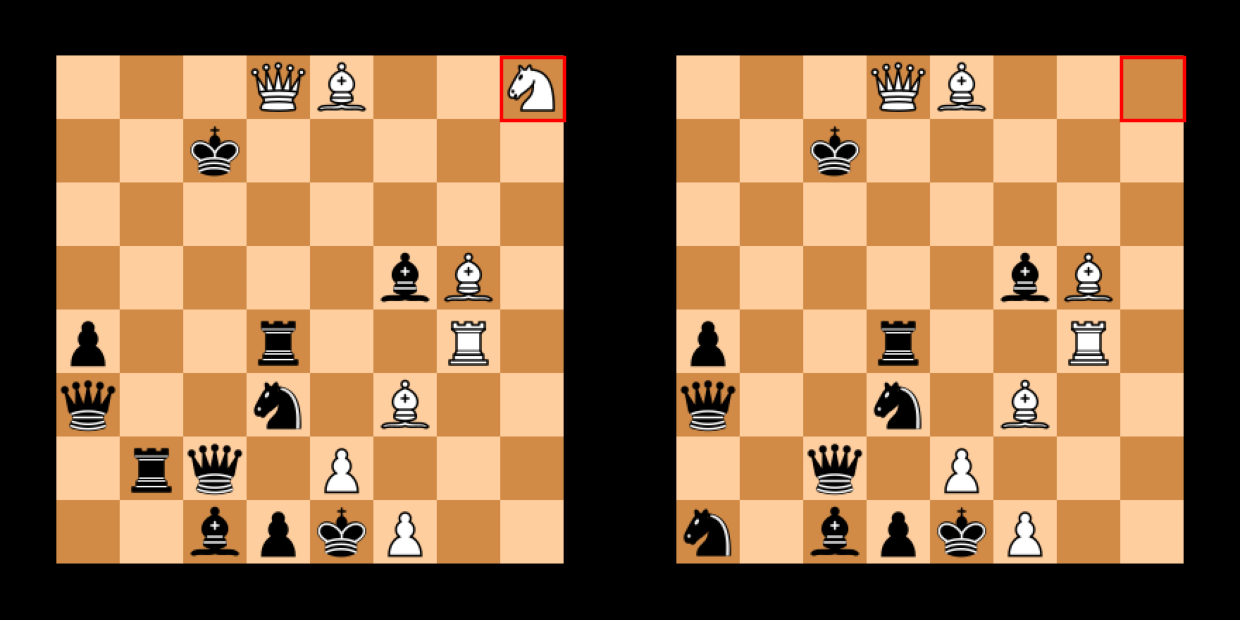
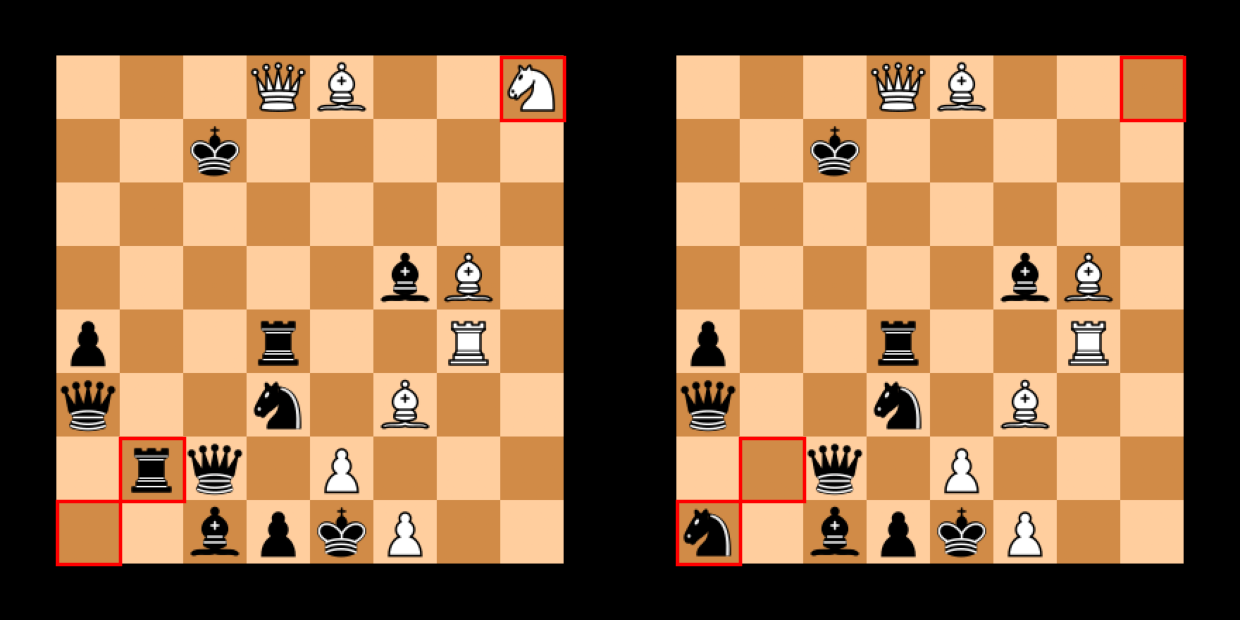
New img with AOI

Changed region(s): [[0.521, 0.7048, 0.6742, 0.9194], [0.0306, 0.7048, 0.1532, 0.9194]]

diff --git a/AOI.py b/AOI.py
@@ -109,29 +109,156 @@ AOI_seven_diff = [[[0, 0, 0, 0]],
 
 
 
+Caligraphies      [[[0, 0, 0, 0]],
+
+                  [[]],
+
+                  [[]],
+
+                  [[]],
+
+                  [[]],
+
+]
 
 
 
 
 
-
-
+Echiquiers
                   [[0, 0, 0, 0]],
 
                   [[355, 40, 45, 45], [795, 40, 45, 45]],
 
-                  [[]],
+                  [[355, 40, 45, 45], [40, 355, 45, 45], [85, 310, 45, 45], [795, 40, 45, 45], [480, 355, 45, 45],
+                   [525, 310, 45, 45]],
 
+                  [[40, 40, 45, 45], [40, 175, 45, 45], [85, 220, 45, 45], [85, 355, 45, 45], [480, 40, 45, 45],
+                   [480, 175, 45, 45], [525, 220, 45, 45], [525, 355, 45, 45]],
 
+                  [[130, 40, 45, 45], [130, 220, 45, 45], [220, 265, 45, 45], [355, 265, 45, 45], [355, 310, 45, 45],
+                   [220, 355, 45, 45], [570, 40, 45, 45], [570, 220, 45, 45], [660, 265, 45, 45], [795, 265, 45, 45],
+                   [795, 310, 45, 45], [660, 355, 45, 45]],
 
+                  [[40, 265, 45, 45], [480, 265, 45, 45]],
 
+                  [[355, 40, 45, 45], [40, 310, 45, 45], [795, 40, 45, 45], [480, 310, 45, 45]],
 
+                  [[355, 175, 45, 45], [265, 310, 45, 45], [85, 355, 45, 45], [795, 175, 45, 45], [705, 310, 45, 45],
+                   [525, 355, 45, 45]],
 
+                  [[130, 40, 45, 45], [175, 175, 45, 45], [130, 310, 45, 45], [220, 310, 45, 45], [570, 40, 45, 45],
+                   [615, 175, 45, 45], [570, 310, 45, 45], [660, 310, 45, 45]],
 
+                  [[85, 85, 45, 45], [265, 85, 45, 45], [310, 130, 45, 45], [130, 220, 45, 45], [175, 220, 45, 45],
+                   [310, 265, 45, 45], [525, 85, 45, 45], [705, 85, 45, 45], [750, 130, 45, 45], [570, 220, 45, 45],
+                   [615, 220, 45, 45], [750, 265, 45, 45]],
 
+                  [[310, 310, 45, 45], [750, 310, 45, 45]],
 
+                  [[310, 310, 45, 45], [750, 310, 45, 45], [130, 310, 45, 45], [570, 310, 45, 45]],
 
-]
+                  [[220, 175, 45, 45], [85, 220, 45, 45], [355, 355, 45, 45], [660, 175, 45, 45],
+                   [525, 220, 45, 45], [795, 355, 45, 45]],
+
+                  [[40, 175, 45, 45], [175, 175, 45, 45], [130, 355, 45, 45], [220, 355, 45, 45], [175, 310, 45, 45],
+                   [480, 175, 45, 45], [615, 175, 45, 45], [570, 355, 45, 45], [660, 355, 45, 45], [615, 310, 45, 45]],
+
+                  [[130, 40, 45, 45], [220, 40, 45, 45], [355, 85, 45, 45], [85, 355, 45, 45], [175, 355, 45, 45],
+                   [265, 355, 45, 45], [570, 40, 45, 45], [660, 40, 45, 45], [795, 85, 45, 45], [525, 355, 45, 45],
+                   [615, 355, 45, 45], [705, 355, 45, 45]],
+
+                  [[0, 0, 0, 0]],
+
+                  [[130, 175, 45, 45], [570, 175, 45, 45]],
+
+                  [[130, 175, 45, 45], [570, 175, 45, 45], [355, 355, 45, 45], [795, 355, 45, 45]],
+
+                  [[355, 130, 45, 45], [355, 220, 45, 45], [130, 265, 45, 45], [40, 310, 45, 45], [795, 130, 45, 45],
+                   [795, 220, 45, 45], [570, 265, 45, 45], [480, 310, 45, 45]],
+
+                  [[265, 130, 45, 45], [355, 175, 45, 45], [85, 220, 45, 45], [85, 265, 45, 45], [85, 310, 45, 45],
+                   [705, 130, 45, 45], [795, 175, 45, 45], [525, 220, 45, 45], [525, 265, 45, 45], [525, 310, 45, 45]],
+
+                  [[0, 0, 0, 0]],
+
+                  [[85, 40, 45, 45], [310, 310, 45, 45], [525, 40, 45, 45], [750, 310, 45, 45]],
+
+                  [[40, 220, 45, 45], [130, 310, 45, 45], [480, 220, 45, 45], [570, 310, 45, 45]],
+
+                  [[220, 130, 45, 45], [220, 310, 45, 45], [85, 355, 45, 45], [355, 355, 45, 45], [660, 130, 45, 45],
+                   [660, 310, 45, 45], [525, 355, 45, 45], [795, 355, 45, 45]],
+
+                  [[40, 40, 45, 45], [310, 40, 45, 45], [40, 85, 45, 45], [175, 175, 45, 45], [310, 265, 45, 45],
+                   [355, 265, 45, 45], [480, 40, 45, 45], [750, 40, 45, 45], [480, 85, 45, 45], [615, 175, 45, 45],
+                   [750, 265, 45, 45], [795, 265, 45, 45]],
+
+                  [[0, 0, 0, 0]],
+
+                  [[40, 220, 45, 45], [480, 220, 45, 45], [220, 310, 45, 45], [660, 310, 45, 45]],
+
+                  [[85, 175, 45, 45], [220, 175, 45, 45], [355, 175, 45, 45], [40, 265, 45, 45], [525, 175, 45, 45],
+                   [660, 175, 45, 45], [795, 175, 45, 45], [480, 265, 45, 45]],
+
+                  [[355, 85, 45, 45], [265, 220, 45, 45], [265, 310, 45, 45], [310, 310, 45, 45], [220, 355, 45, 45],
+                   [795, 85, 45, 45], [705, 220, 45, 45], [705, 310, 45, 45], [750, 310, 45, 45], [660, 355, 45, 45]],
+
+                  [[130, 130, 45, 45], [265, 85, 45, 45], [85, 175, 45, 45], [310, 220, 45, 45], [220, 265, 45, 45],
+                   [85, 310, 45, 45], [570, 130, 45, 45], [705, 85, 45, 45], [525, 175, 45, 45], [750, 220, 45, 45],
+                   [660, 265, 45, 45], [525, 310, 45, 45]],
+
+                  [[0, 0, 0, 0]],
+
+                  [[175, 130, 45, 45], [615, 130, 45, 45]],
+
+                  [[265, 265, 45, 45], [40, 310, 45, 45], [705, 265, 45, 45], [480, 310, 45, 45]],
+
+                  [[40, 85, 45, 45], [310, 220, 45, 45], [40, 310, 45, 45], [480, 85, 45, 45], [85, 355, 45, 45],
+                   [750, 220, 45, 45], [480, 310, 45, 45], [525, 355, 45, 45]],
+
+                  [[220, 130, 45, 45], [40, 220, 45, 45], [355, 220, 45, 45], [355, 265, 45, 45], [40, 355, 45, 45],
+                   [85, 355, 45, 45], [660, 130, 45, 45], [480, 220, 45, 45], [795, 220, 45, 45], [795, 265, 45, 45],
+                   [480, 355, 45, 45], [525, 355, 45, 45]],
+
+                  [[0, 0, 0, 0]],
+
+                  [[220, 310, 45, 45], [660, 310, 45, 45]],
+
+                  [[220, 310, 45, 45], [660, 310, 45, 45], [310, 175, 45, 45], [50, 175, 45, 45]],
+
+                  [[40, 40, 45, 45], [175, 40, 45, 45], [130, 310, 45, 45], [480, 40, 45, 45], [615, 40, 45, 45],
+                   [570, 310, 45, 45]],
+
+                  [[40, 130, 45, 45], [85, 175, 45, 45], [220, 175, 45, 45], [175, 220, 45, 45], [220, 310, 45, 45],
+                   [265, 175, 45, 45], [480, 130, 45, 45], [525, 175, 45, 45], [660, 175, 45, 45], [615, 220, 45, 45],
+                   [660, 310, 45, 45], [705, 175, 45, 45]],
+
+                  [[0, 0, 0, 0]],
+
+                  [[85, 40, 45, 45], [265, 265, 45, 45], [525, 40, 45, 45], [705, 265, 45, 45]],
+
+                  [[355, 40, 45, 45], [265, 130, 45, 45], [220, 355, 45, 45], [310, 355, 45, 45], [795, 40, 45, 45],
+                   [705, 130, 45, 45], [660, 355, 45, 45], [750, 355, 45, 45]],
+
+                  [[310, 85, 45, 45], [355, 175, 45, 45], [310, 220, 45, 45], [310, 265, 45, 45], [40, 310, 45, 45],
+                   [750, 85, 45, 45], [795, 175, 45, 45], [750, 220, 45, 45], [750, 265, 45, 45], [480, 310, 45, 45]],
+
+                  [[310, 85, 45, 45], [85, 130, 45, 45], [130, 130, 45, 45], [265, 130, 45, 45], [355, 175, 45, 45],
+                   [130, 310, 45, 45], [750, 85, 45, 45], [525, 130, 45, 45], [570, 130, 45, 45], [705, 130, 45, 45],
+                   [795, 175, 45, 45], [570, 310, 45, 45]],
+
+                  [[0, 0, 0, 0]],
+
+                  [[85, 310, 45, 45], [525, 310, 45, 45]],
+
+                  [[85, 310, 45, 45], [525, 310, 45, 45], [40, 130, 45, 45], [480, 130, 45, 45]],
+
+                  [[130, 130, 45, 45], [265, 310, 45, 45], [130, 355, 45, 45], [570, 130, 45, 45], [705, 310, 45, 45],
+                   [570, 355, 45, 45]],
+
+                  [[130, 130, 45, 45], [220, 85, 45, 45], [310, 85, 45, 45], [85, 175, 45, 45], [130, 310, 45, 45],
+                   [355, 310, 45, 45], [570, 130, 45, 45], [660, 85, 45, 45], [750, 85, 45, 45], [525, 175, 45, 45],
+                   [570, 310, 45, 45], [795, 310, 45, 45]]]
 
 
 # EMMA ICI

diff --git a/AOI_emma.py b/AOI_emma.py
@@ -1,14 +1,13 @@
 import matplotlib.pyplot as plt
 import matplotlib.patches as patches
 
-rect1 = patches.Rectangle((355, 40), 45, 45, linewidth=1, edgecolor='r', facecolor='none')
-rect2 = patches.Rectangle((50, 40), 45, 45, linewidth=1, edgecolor='r', facecolor='none')
-rect3 = patches.Rectangle((795, 40), 45, 45, linewidth=1, edgecolor='r', facecolor='none')
-rect4 = patches.Rectangle((795, 40), 45, 45, linewidth=1, edgecolor='r', facecolor='none')
+rect1 = patches.Rectangle((420, 600), 65, 75, linewidth=1, edgecolor='r', facecolor='none')
+rect2 = patches.Rectangle((1585, 600), 65, 75, linewidth=1, edgecolor='r', facecolor='none')
 
 
-number_image = 30
-number_difference = 3
+
+number_image = 20
+number_difference = 2
 
 fig, ax = plt.subplots()
 img = plt.imread(f"../seven_diff/img/img_{number_image}_{number_difference}.png")
@@ -16,7 +15,5 @@ plt.axis('off')
 plt.imshow(img)
 ax.add_patch(rect1)
 ax.add_patch(rect2)
-ax.add_patch(rect3)
-ax.add_patch(rect4)
 
 plt.savefig(f"AOI_seven_diff/img_{number_image}_{number_difference}_aoi.png", bbox_inches="tight", pad_inches=0, dpi=250)
